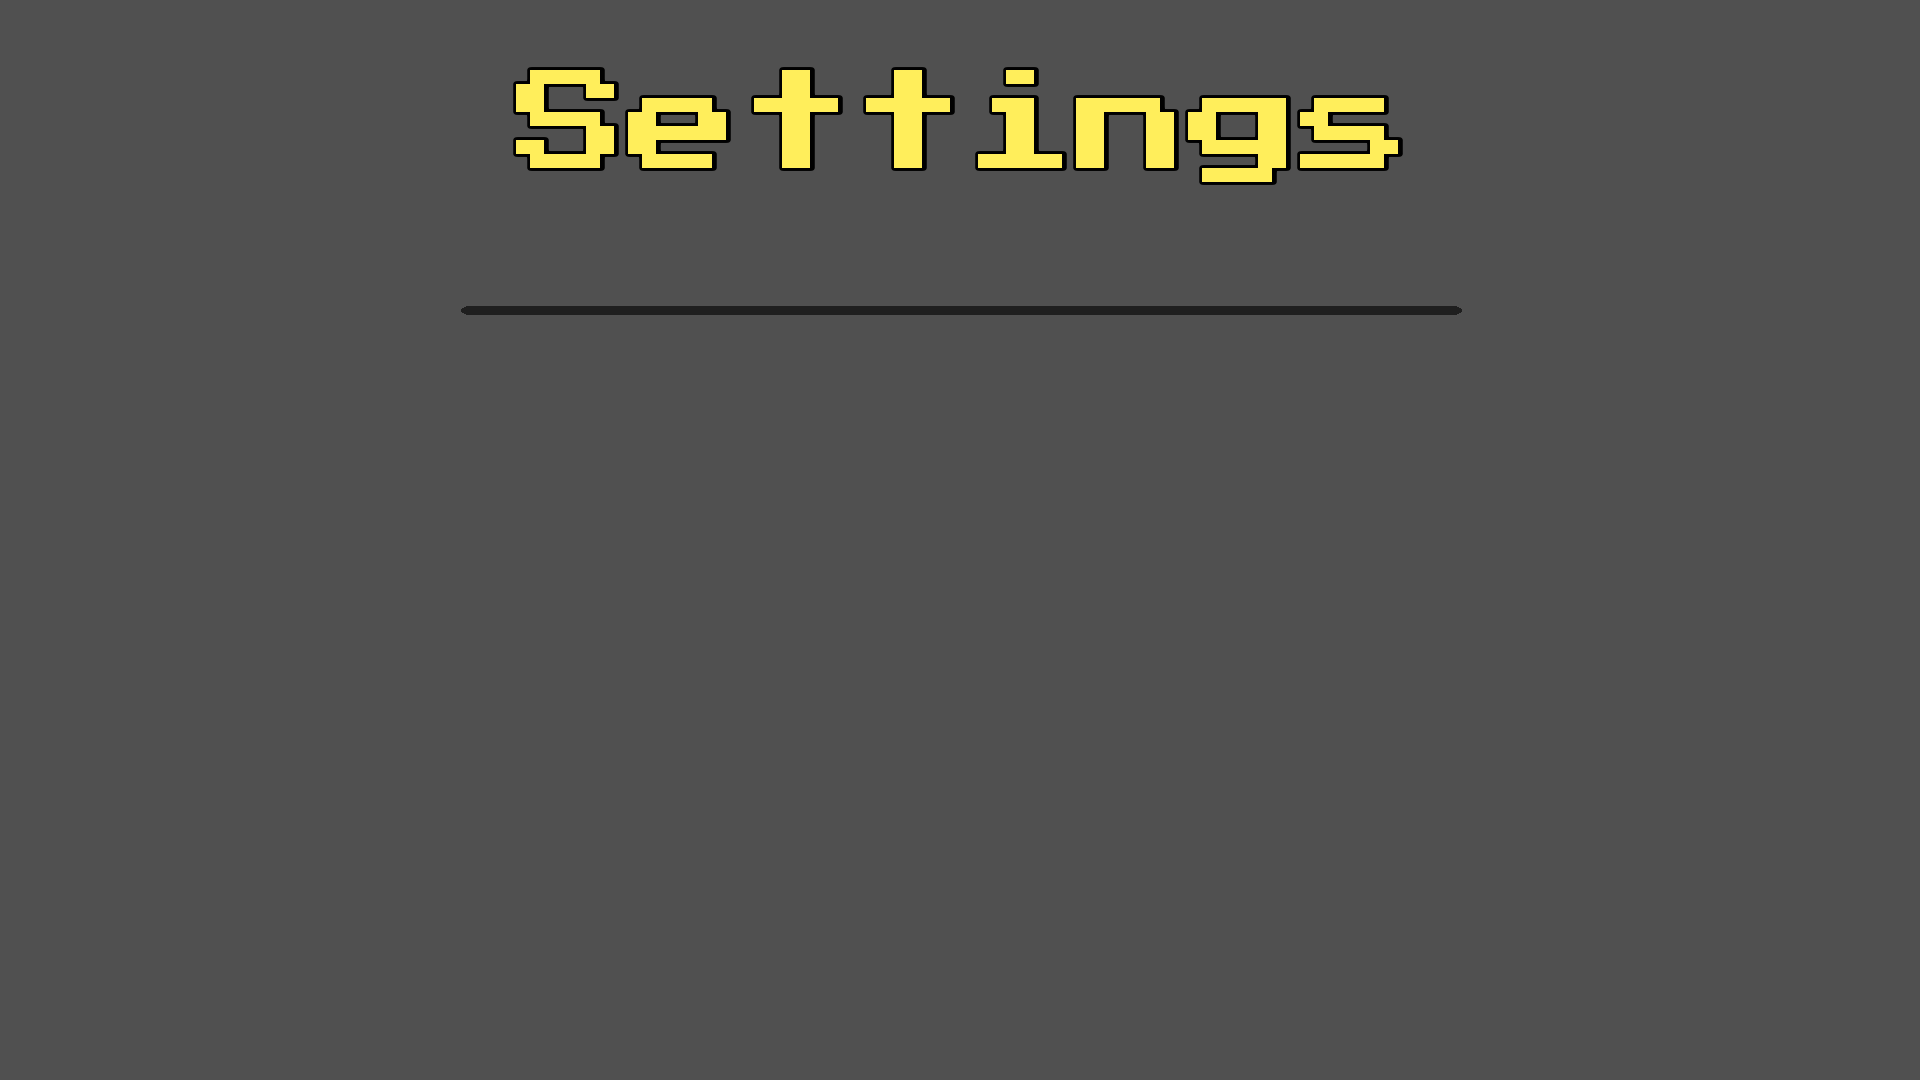
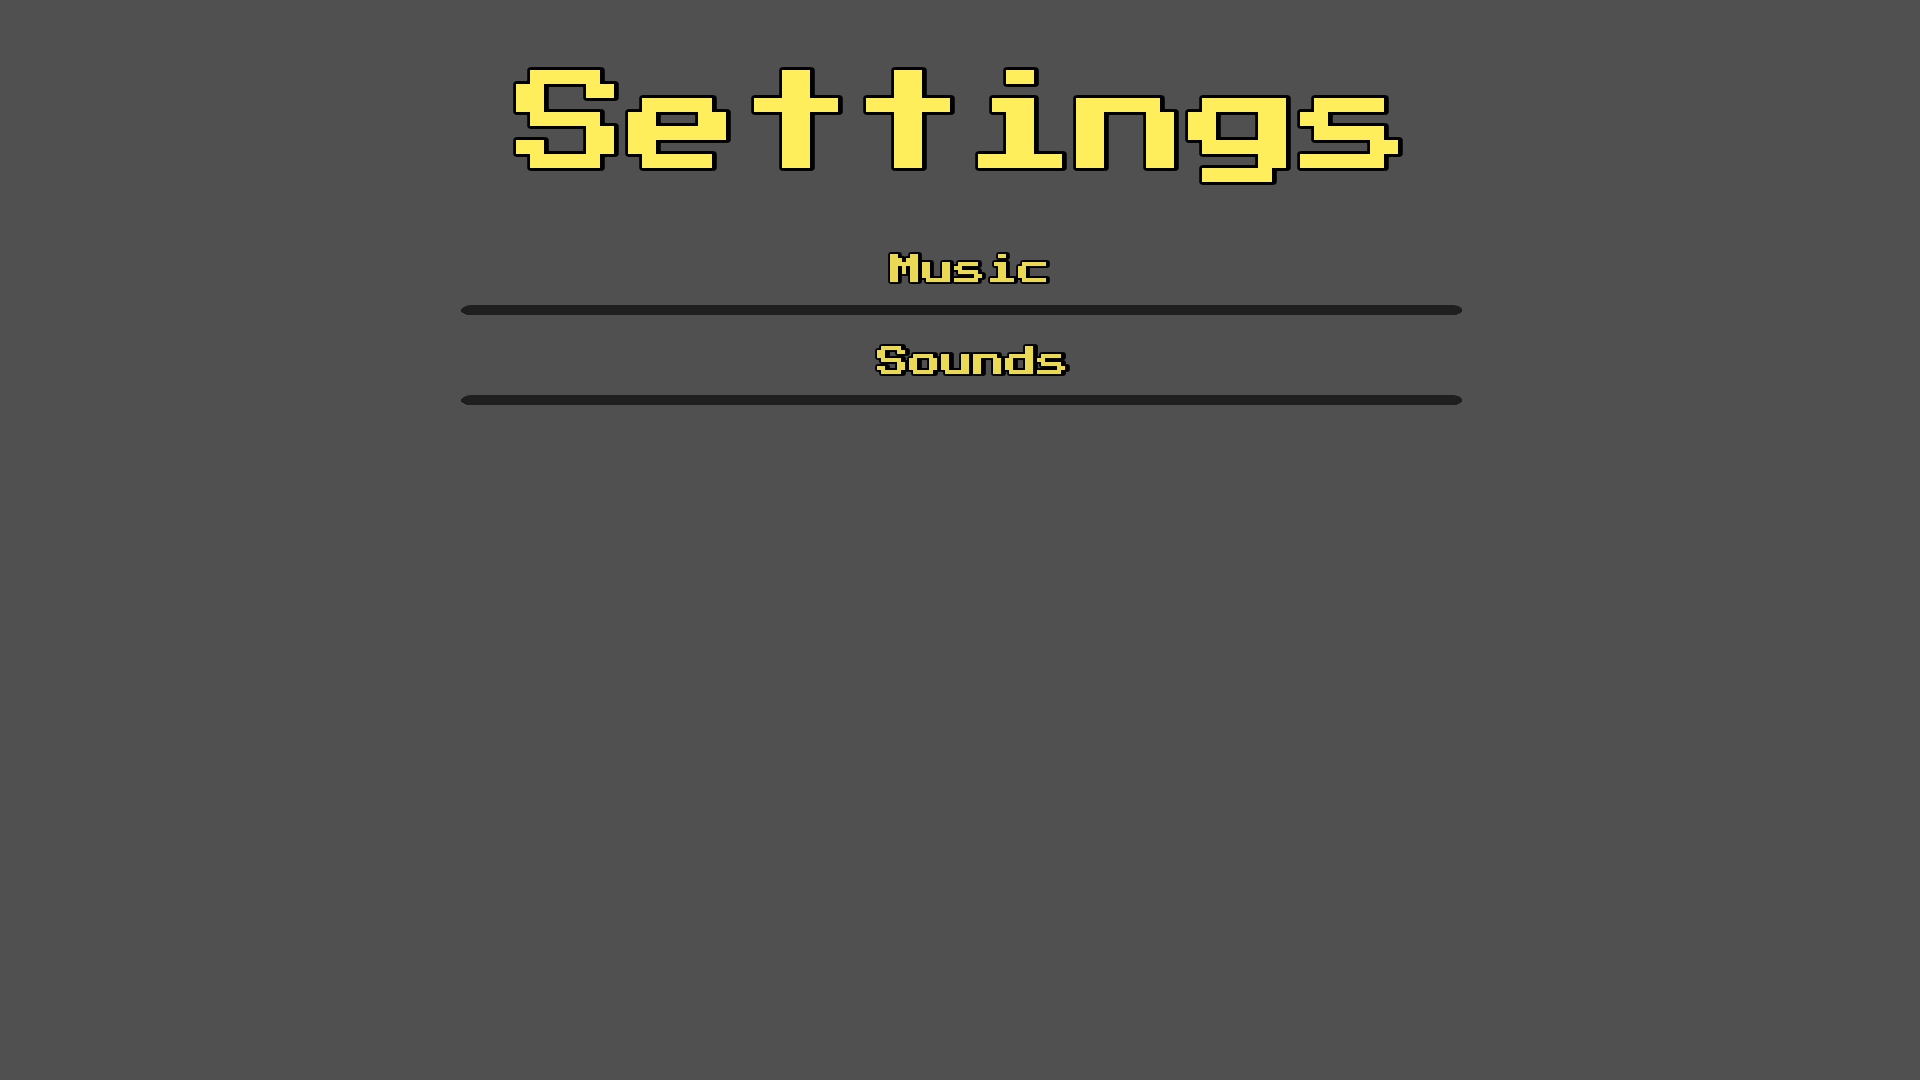
new items

Changed region(s): [[0.25, 0.3056, 0.75, 0.3972], [0.4375, 0.2139, 0.5625, 0.275]]

diff --git a/dung/world.cs b/dung/world.cs
@@ -36,6 +36,7 @@ namespace dung
         private SoundEffect backgroundSong;
         private Texture2D cursor, YouDiedTexture;
         private SoundEffectInstance soundEffectInstance1;
+        public float soundsVolume = 0.3f;
 
         /// <summary>
         /// new world
@@ -57,7 +58,7 @@ namespace dung
 
             var tmptex1 = contentManager.Load<Texture2D>("exitworldbuttonnormal");
 
-            exitButton = new button(0, 960-tmptex1.Width/2, 740, tmptex1.Width, tmptex1.Height, tmptex1, contentManager.Load<Texture2D>("exitworldbuttonpressed"), contentManager.Load<SpriteFont>("button_font"), "", Color.White);
+            exitButton = new button(0, 960-tmptex1.Width/2, 450, tmptex1.Width, tmptex1.Height, tmptex1, contentManager.Load<Texture2D>("exitworldbuttonpressed"), contentManager.Load<SpriteFont>("button_font"), "", Color.White);
 
             tmptex1 = contentManager.Load<Texture2D>("settings_button_normal");
 
@@ -65,9 +66,13 @@ namespace dung
 
             tmptex1 = contentManager.Load<Texture2D>("normal_slider");
 
-            musicSlider = new Slider(960 - 500, 306 - tmptex1.Height / 2, 1000, tmptex1.Height, 0, 0, tmptex1);
+            musicSlider = new Slider(960 - 500, 310, 1000, tmptex1.Height, 300, 0, tmptex1);
             musicSlider.LockY = true;
             musicSlider.LockX = false;
+
+            soundsSlider = new Slider(960 - 500, 400, 1000, tmptex1.Height, 300, 0, tmptex1);
+            soundsSlider.LockY = true;
+            soundsSlider.LockX = false;
 
             mapObjects = new List<MapObject>();
 
@@ -102,6 +107,7 @@ namespace dung
             }
 
             samplePotions.Add(new Potion(contentManager, 0, 0, 10));
+            samplePotions.Add(new Potion(contentManager, 0, 0, 15));
 
             for (int i = 0; i < 1; i++)
             {
@@ -363,10 +369,14 @@ namespace dung
 
                     soundEffectInstance1.Stop();
                 }
-
+                
                 musicSlider.Update();
 
-                this.soundEffectInstance1.Volume = musicSlider.SliderX / musicSlider.Width;
+                this.soundEffectInstance1.Volume = (float)musicSlider.SliderX / musicSlider.Width;
+
+                soundsSlider.Update();
+
+                this.soundsVolume = (float)soundsSlider.SliderX / soundsSlider.Width;
             }
             else
             {
@@ -486,6 +496,8 @@ namespace dung
                 exitButton.draw(spriteBatch);
 
                 musicSlider.Draw(spriteBatch);
+
+                soundsSlider.Draw(spriteBatch);
             }
 
             settingsButton.draw(spriteBatch);

diff --git a/dung/Game1.cs b/dung/Game1.cs
@@ -110,49 +110,52 @@ namespace dung
                 fpsc.Update(gameTime);
             }
 
-            if (worldActive && !IsActive && !newGameWorldThread.IsAlive)
+            /*if (worldActive && !IsActive && !newGameWorldThread.IsAlive)
             {
                 testworld.Save("info/worlds/world1");
-            }
+            }*/
 
-            if(!worldActive)
+            if (IsActive)
             {
-                createWorldButton.update();
-
-                if (createWorldButton.pressed)
+                if (!worldActive)
                 {
-                    worldActive = true;
+                    createWorldButton.update();
 
-                    IsMouseVisible = false;
+                    if (createWorldButton.pressed)
+                    {
+                        worldActive = true;
 
-                    _graphics.ApplyChanges();
+                        IsMouseVisible = false;
 
-                    newGameWorldThread = new Thread(new ThreadStart(CreateWorld));
-                    newGameWorldThread.Start();
+                        _graphics.ApplyChanges();
+
+                        newGameWorldThread = new Thread(new ThreadStart(CreateWorld));
+                        newGameWorldThread.Start();
+                    }
+
+                    exitFromGameButton.update();
+
+                    if (exitFromGameButton.pressed)
+                    {
+                        Exit();
+                    }
                 }
-
-                exitFromGameButton.update();
-
-                if(exitFromGameButton.pressed)
+                else if (newGameWorldThread.IsAlive)
                 {
-                    Exit();
+                    loadingScreenPhase++;
+
+                    loadingScreenPhase %= loadingScreenTextures.Count;
                 }
-            }    
-            else if(newGameWorldThread.IsAlive)
-            {
-                loadingScreenPhase++;
-
-                loadingScreenPhase %= loadingScreenTextures.Count;
-            }
-            else
-            {
-                testworld.update(Content);
-
-                if(!testworld.Active)
+                else
                 {
-                    IsMouseVisible = true;
+                    testworld.update(Content);
 
-                    worldActive = false;
+                    if (!testworld.Active)
+                    {
+                        IsMouseVisible = true;
+
+                        worldActive = false;
+                    }
                 }
             }
 

diff --git a/dung/item.cs b/dung/item.cs
@@ -64,7 +64,7 @@ namespace dung
         {
             spriteBatch.Draw(Textures[texturesPhase], new Vector2(x - Textures[texturesPhase].Width / 2, y - Textures[texturesPhase].Height), Color.White);
 
-            if (gameWorld.GetDist(X, Y, gameWorld.referenceToHero.X, gameWorld.referenceToHero.Y) <= Radius + gameWorld.referenceToHero.Radius + 1)
+            if (gameWorld.GetDist(X, Y, gameWorld.referenceToHero.X, gameWorld.referenceToHero.Y) <= Radius + gameWorld.referenceToHero.Radius + 2)
             {
                 spriteBatch.DrawString(Font, Name, new Vector2(x - Textures[texturesPhase].Width / 2 - Font.MeasureString(Name).X / 2, y - Textures[texturesPhase].Height - Font.MeasureString(Name).Y * 1.1f), Color.White);
             }

diff --git a/dung/potion.cs b/dung/potion.cs
@@ -34,6 +34,13 @@ namespace dung
                 Radius = double.Parse(tmplist[0]);
 
                 AddHp = Int32.Parse(tmplist[1]);
+
+                if (Type == 15)
+                {
+                    var rnd = new Random();
+
+                    AddHp = rnd.Next(-1, 3);
+                }
             }
 
             base.updateTexture(contentManager, true);
@@ -50,6 +57,13 @@ namespace dung
 
             Radius = sample.Radius;
             AddHp = sample.AddHp;
+
+            if (Type == 15)
+            {
+                var rnd = new Random();
+
+                AddHp = rnd.Next(-1, 3);
+            }
 
             Name = sample.Name;
 

diff --git a/dung/slider.cs b/dung/slider.cs
@@ -60,7 +60,7 @@ namespace dung
 
         public void Draw(SpriteBatch spriteBatch)
         {
-            spriteBatch.Draw(SliderTexture, new Vector2(X + SliderX, Y + SliderY), Color.White);
+            spriteBatch.Draw(SliderTexture, new Vector2(X + SliderX - SliderTexture.Width / 2, Y + SliderY - SliderTexture.Height / 2), Color.White);
         }
 
         public void ChangeCoords(int x, int y)

diff --git a/dung/ghost.cs b/dung/ghost.cs
@@ -364,7 +364,7 @@ namespace dung
                 {
                     var inst = soundEffects[0].CreateInstance();
 
-                    inst.Volume = (float)(dist_to_hero / 25d) * 0.5f;
+                    inst.Volume = (float)(dist_to_hero / 25d) * gameWorld.soundsVolume;
 
                     inst.Play();
                 }
